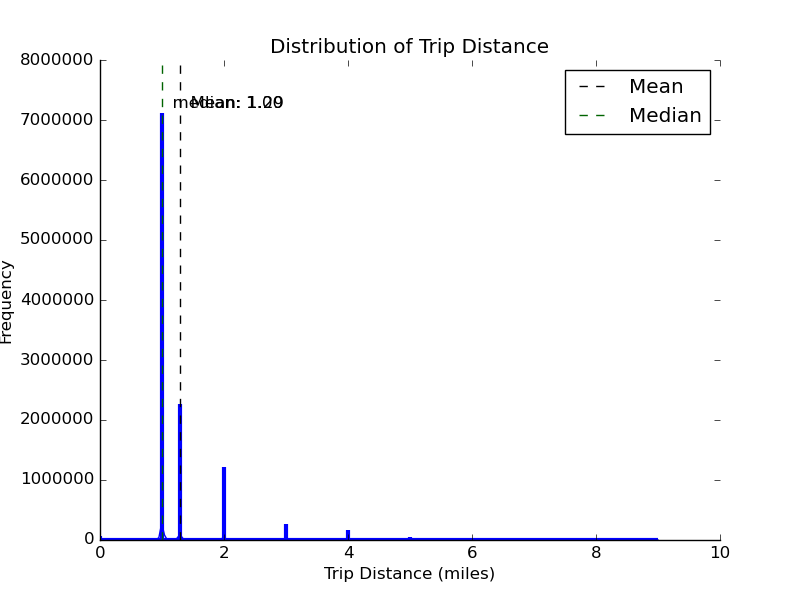
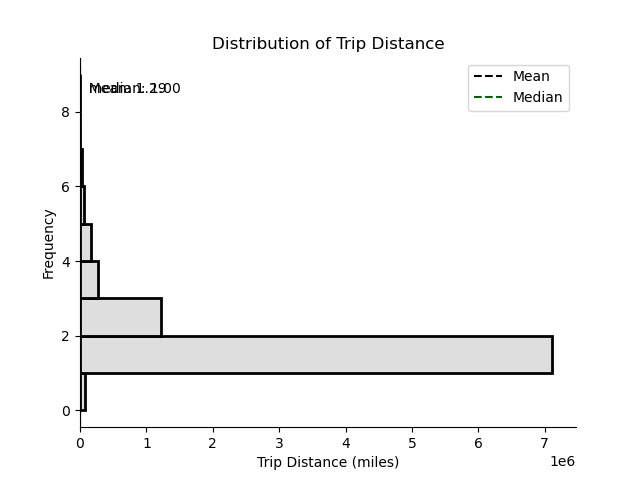
finished anom , null // fixed fare plot and dist_passenger  under progress

Changed region(s): [[0.0, 0.1562, 0.9375, 1.0], [0.3125, 0.0625, 0.9062, 0.25], [0.0312, 0.0625, 0.125, 0.125]]

diff --git a/preprocessing/anomlies.py b/preprocessing/anomlies.py
@@ -62,7 +62,36 @@ def detect_anomalies(data):
     #4           2
     # so from it  we can see clearly that we must remove month 12 and 4 as they are not representative
     #  and they are basically outliers and they will affect our analysis
-    
+    print(data[data.month == 12][['trip_id','month']])
+    print(data[data.month == 4][['trip_id','month']])
+    # the exact rows that has this issue : 
+    '''        trip_id  month
+    605          606     12
+    687          688     12
+    688          689     12
+    861          862     12
+    1108        1109     12
+    1312        1313     12
+    2276        2277     12
+    3941        3942     12
+    3942        3943     12
+    4324        4325     12
+    4370        4371     12
+    4654        4655     12
+    4655        4656     12
+    5217        5218     12
+    5335        5336     12
+    7623        7624     12
+    7624        7625     12
+    7625        7626     12
+    17542      17543     12
+    20611      20612     12
+    20612      20613     12
+    7880444  7880445     12
+            trip_id  month
+    10278974  10278975      4
+    10280573  10280574      4
+'''
     data = data[(data['month'] != 12) & (data['month'] != 4)]
 
     #ALSO in passenger_count there exist 1.2888 as a passenger_count which is not possible so it will need to be turned into 
@@ -87,6 +116,15 @@ RatecodeID
  88.000000        533   BAD --> TURN TO 99
  6.000000          11   OKAY
  '''
+    # so we will need to turn 2.459329 to 2 as it is the closest value to it and it is the most likely value to be the real one
+    # also we will need to turn -1 to 1 as it is the closest value to it and it is the most likely value to be the real one
+    # also we will need to turn 12 to unknown as it is not in the look up table and it is not a valid value
+    # also we will need to turn 88 to 99 as it is the closest value to it and it is the most likely value to be the real one
+
+    data['RatecodeID'] = data['RatecodeID'].apply(lambda x : 2 if x == 2.459329 else x)
+    data['RatecodeID'] = data['RatecodeID'].apply(lambda x : 1 if x == -1 else x)
+    data['RatecodeID'] = data['RatecodeID'].apply(lambda x : 'unknown' if x == 12 else x)
+    data['RatecodeID'] = data['RatecodeID'].apply(lambda x : 99 if x == 88 else x)
     
 
 ##############################################

diff --git a/Analytical_section/Univariate_EDA/fare_amount.py b/Analytical_section/Univariate_EDA/fare_amount.py
@@ -6,16 +6,24 @@ def analyze_fare_amount(data):
     
     
     
+    data=data[data.fare_amount < 150    ]
+    data = data[data.fare_amount > 0    ]
     
-     
-    
-    
+    plt.style.use('fast')
     plt.figure()
-    sns.displot(x = data.fare_amount , bins = 'fd' , kde = True , color = 'darkblue') # we are using fd to determin the bins    
+    sns.histplot(x = data.fare_amount , bins = 220 , kde = False , color = 'lightgray'  ) # we are using fd to determin the bins    
+    
+    plt.axvline(x=data.fare_amount.mean(), color='black', linestyle='--', label='Mean')
+    plt.text(data.fare_amount.mean(), plt.ylim()[1]*0.9, f'  Mean: {data.fare_amount.mean():.2f}', color='black')
+    
+    plt.axvline(x=data.fare_amount.median()  , color='darkgreen', label='Median')
+    plt.text(data.fare_amount.median()   , plt.ylim()[1]*0.75, f'  median: {data.fare_amount.median():.2f}', color='black' , ha = 'left')
+    
     plt.title('Distribution of fare amount')
     plt.xlabel('Fare amount')
 
     plt.ylabel('Count')
+    sns.despine() # to look like R classic
     plt.savefig('analyze_fare_amount')
     plt.show()    
     

diff --git a/Analytical_section/Univariate_EDA/dist_passenger.py b/Analytical_section/Univariate_EDA/dist_passenger.py
@@ -4,10 +4,11 @@ import seaborn as sns
 def dist_passenger(df):
     
     ##
-    plt.style.use('classic')
+    plt.style.use('fast')
     plt.figure()
-     
-    sns.histplot(df.passenger_count, bins='fd', kde=False, palette='Pastel1', linewidth=3 , fill=False )# we are using fd to determin the bins
+     # also we want it hori and we want them ordered 
+
+    sns.histplot(y = df.passenger_count, bins=9, kde=False, color='lightgray' ,  linewidth=2 , fill=True   )# we are using fd to determin the bins
     
     plt.title('Distribution of Trip Distance')
     plt.xlabel('Trip Distance (miles)')
@@ -24,6 +25,7 @@ def dist_passenger(df):
     
     sns.despine()
     #plt.xlim(0, 50)  # ?????Limit x-axis to focus on the majority of trips
+    sns.despine()
     #now we will save the plot as an image file
     plt.savefig('dist_passenger.png')
     plt.show()

diff --git a/main.py b/main.py
@@ -19,8 +19,6 @@ def main():
     #preprocessing
     print("Preprocessing data...")
     #####
-
-
     
     #data = handle_nulls(data)
 
